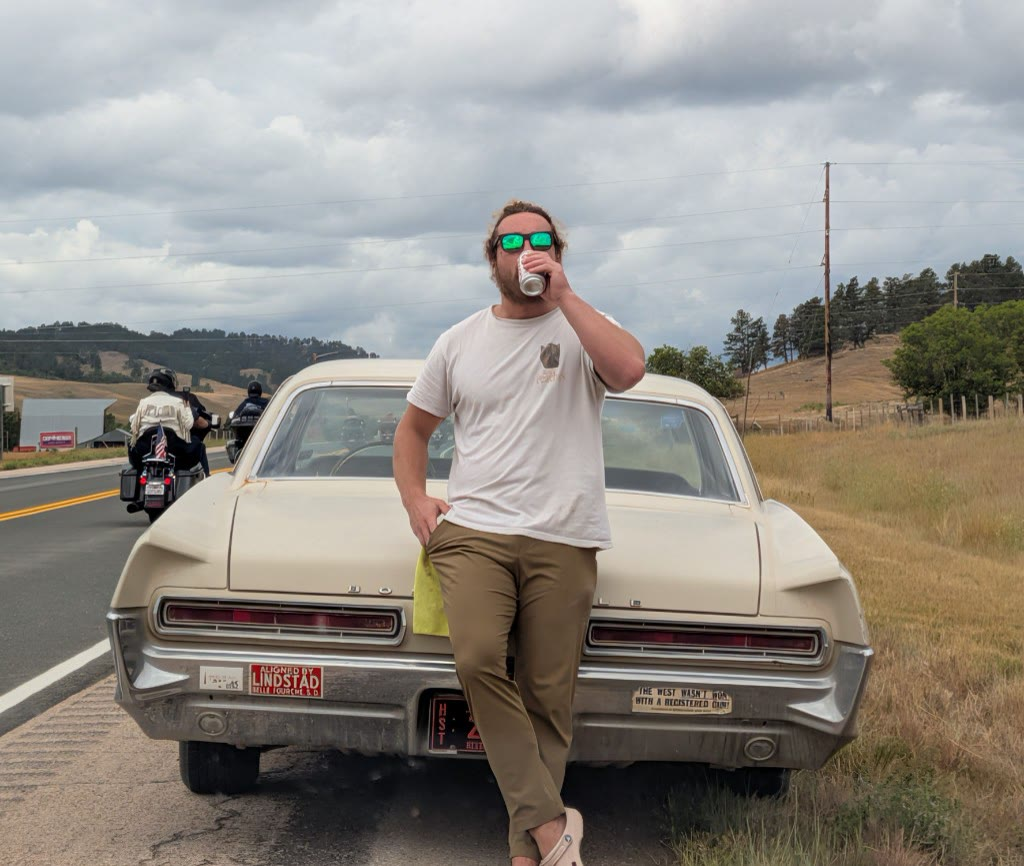
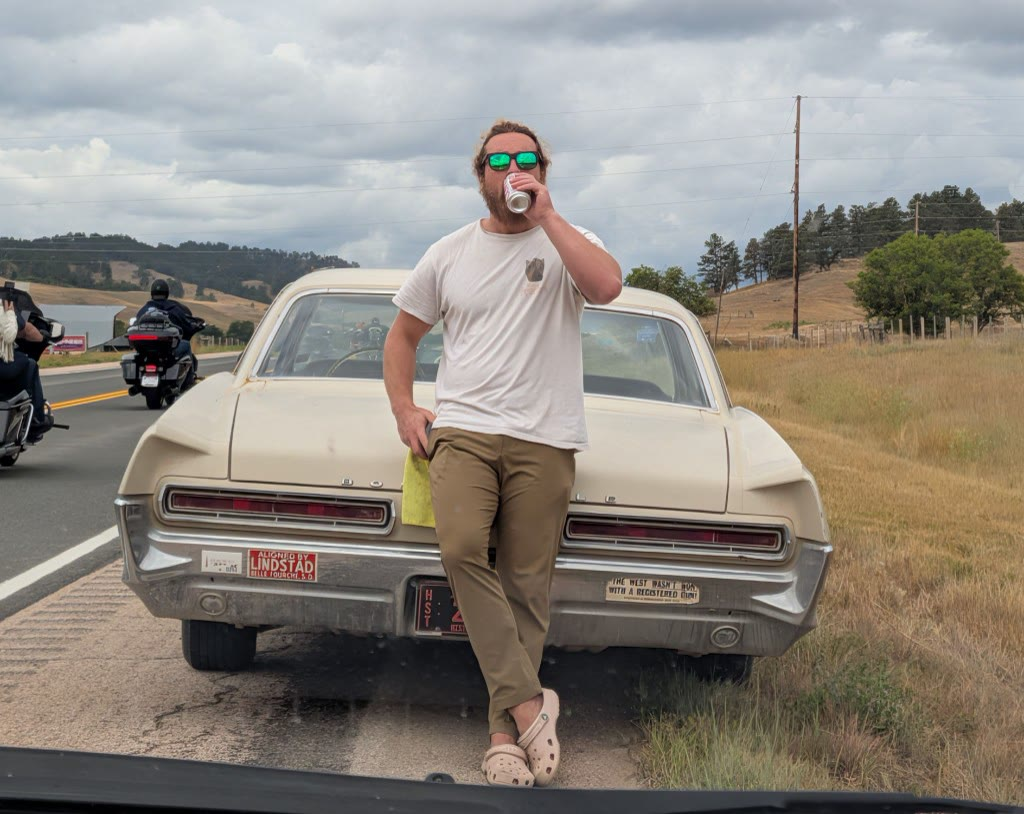
Swap George’s team photo for the new roadside frame.

diff --git a/index.html b/index.html
@@ -200,7 +200,7 @@
       </article>
       <article class="founder-pane">
         <div class="founder-pane-media">
-          <img src="assets/team/george/01.jpg" alt="George Stratch" class="is-active is-wide" width="1024" height="866" loading="lazy" decoding="async">
+          <img src="assets/team/george/01.jpg?v=2" alt="George Stratch" class="is-active is-wide" width="1024" height="814" loading="lazy" decoding="async">
         </div>
         <div class="founder-pane-copy">
           <p class="founder-name">George</p>
